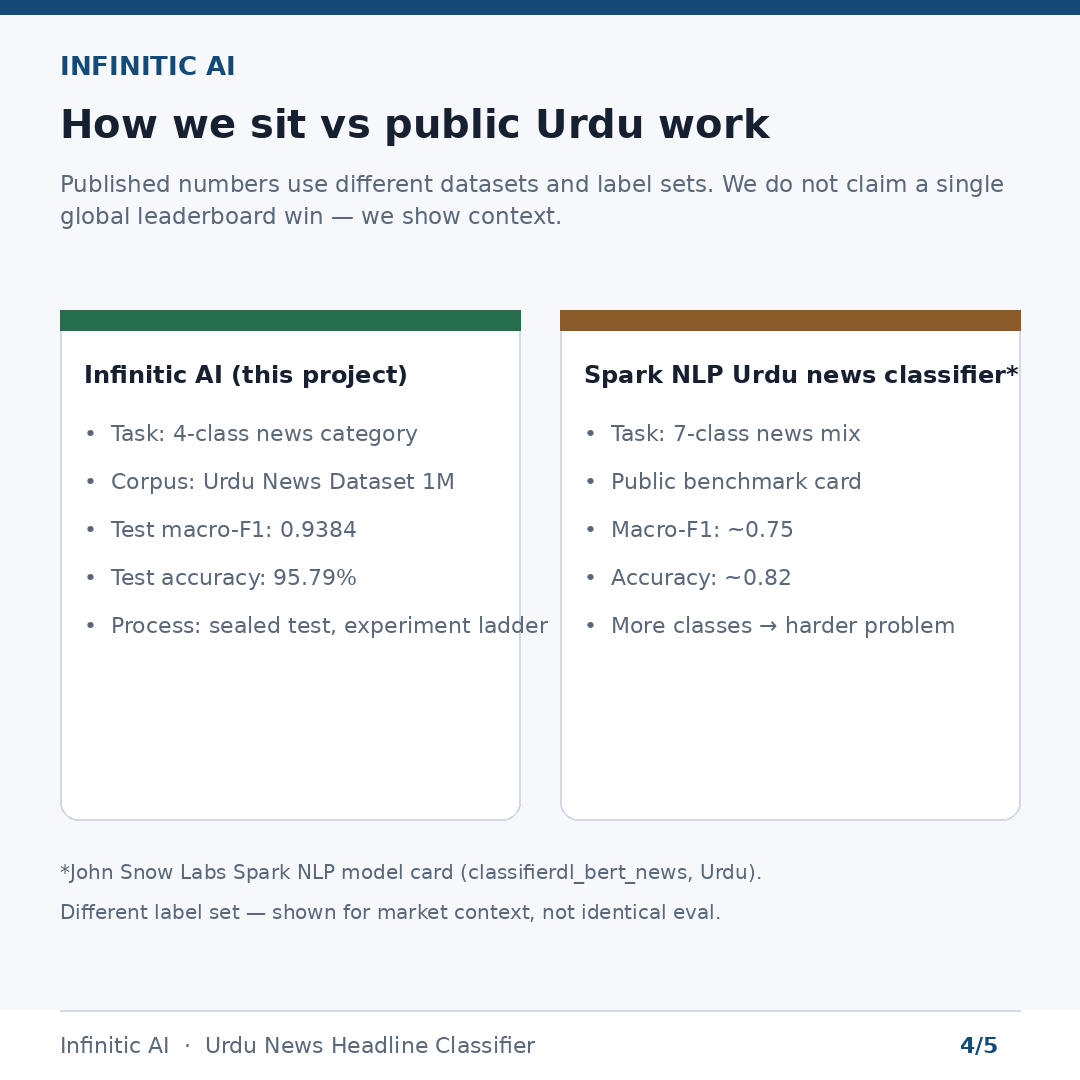
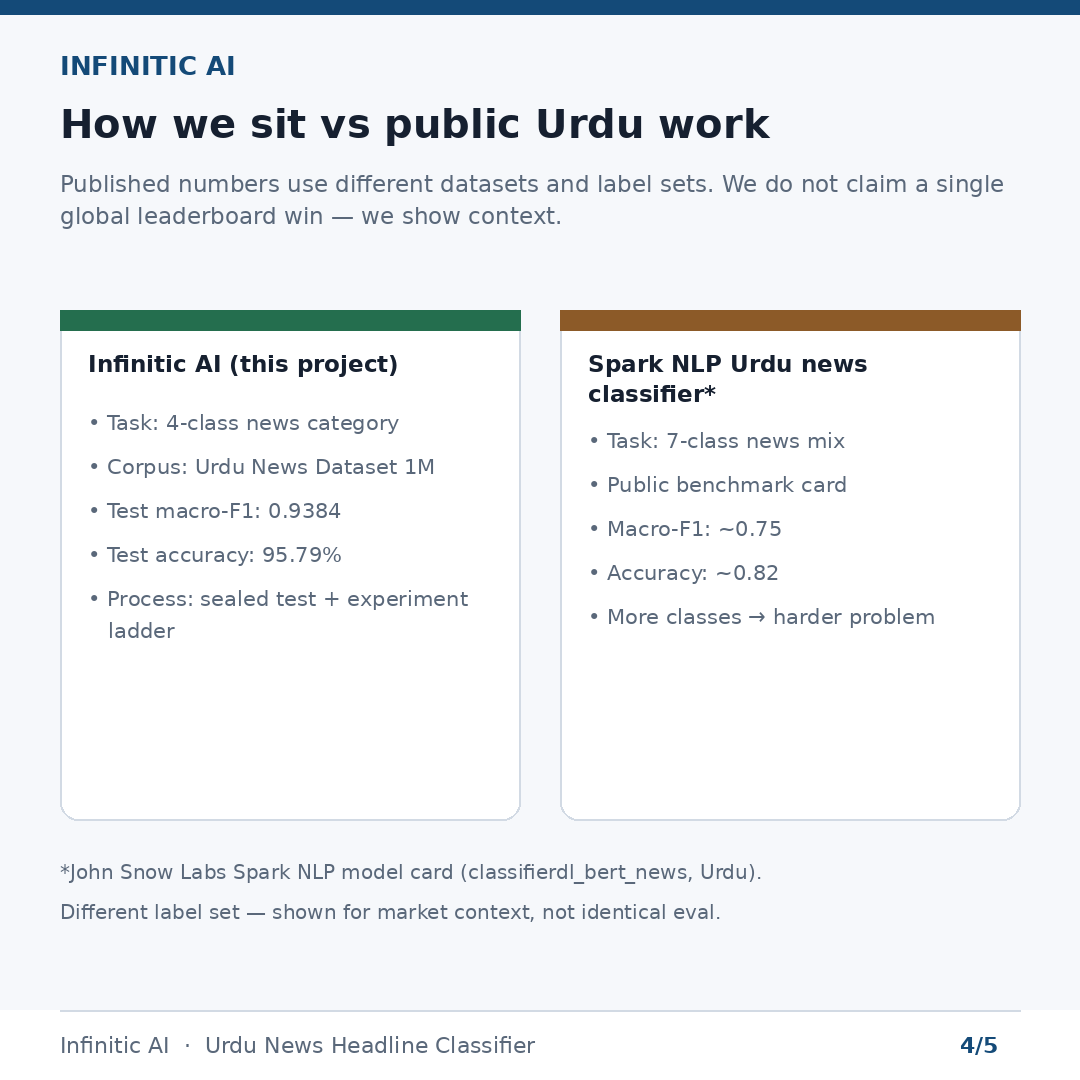
Fix LinkedIn card 4 text overflow past the comparison box.
Wrap bullet lines inside the panel width so 'experiment ladder' stays
inside the Infinitic AI card.

Changed region(s): [[0.0611, 0.3056, 0.4889, 0.6111], [0.5194, 0.3056, 0.9472, 0.6111]]

diff --git a/docs/linkedin/generate_linkedin_pngs.py b/docs/linkedin/generate_linkedin_pngs.py
@@ -159,7 +159,7 @@ def card4_external_context():
         draw.text((60, y), line, font=font(23), fill=MUTED)
         y += 32
 
-    # comparison cards
+    # comparison cards — wrap body text so nothing spills past the box edge
     panels = [
         (
             "Infinitic AI (this project)",
@@ -168,7 +168,7 @@ def card4_external_context():
                 "Corpus: Urdu News Dataset 1M",
                 "Test macro-F1: 0.9384",
                 "Test accuracy: 95.79%",
-                "Process: sealed test, experiment ladder",
+                "Process: sealed test + experiment ladder",
             ],
             GREEN,
         ),
@@ -184,15 +184,33 @@ def card4_external_context():
             AMBER,
         ),
     ]
+    panel_w = 460
+    panel_pad = 28
+    inner_w = panel_w - (panel_pad * 2)
+    body_font = font(21)
+    title_font = font(23, True)
     x = 60
     for title, lines, accent in panels:
-        draw.rounded_rectangle([x, 310, x + 460, 820], radius=18, fill=WHITE, outline=RULE, width=2)
-        draw.rectangle([x, 310, x + 460, 330], fill=accent)
-        draw.text((x + 24, 360), title, font=font(24, True), fill=INK)
-        yy = 420
+        draw.rounded_rectangle([x, 310, x + panel_w, 820], radius=18, fill=WHITE, outline=RULE, width=2)
+        draw.rectangle([x, 310, x + panel_w, 330], fill=accent)
+        title_y = 350
+        for title_line in wrap(draw, title, title_font, inner_w):
+            draw.text((x + panel_pad, title_y), title_line, font=title_font, fill=INK)
+            title_y += 30
+        yy = max(title_y + 18, 410)
         for line in lines:
-            draw.text((x + 24, yy), "•  " + line, font=font(22), fill=MUTED)
-            yy += 48
+            # Wrap the full drawn string so the bullet prefix cannot overflow the box.
+            wrapped = wrap(draw, "•  " + line, body_font, inner_w)
+            for i, part in enumerate(wrapped):
+                if i > 0 and not part.startswith("•"):
+                    part = "   " + part.lstrip()
+                draw.text((x + panel_pad, yy), part, font=body_font, fill=MUTED)
+                # hard assert for layout QA
+                right_edge = x + panel_pad + draw.textlength(part, font=body_font)
+                if right_edge > x + panel_w - panel_pad + 1:
+                    raise SystemExit(f"overflow in card4: {part!r} ends at {right_edge}")
+                yy += 32
+            yy += 12
         x += 500
 
     draw.text((60, 860), "*John Snow Labs Spark NLP model card (classifierdl_bert_news, Urdu).", font=font(20), fill=MUTED)
